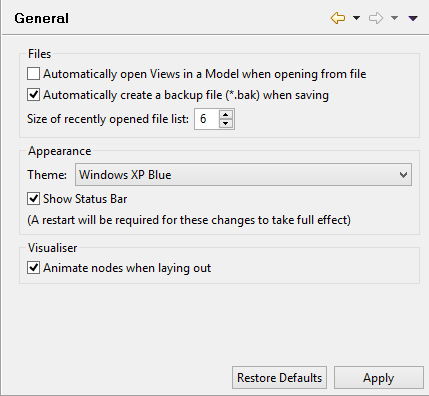
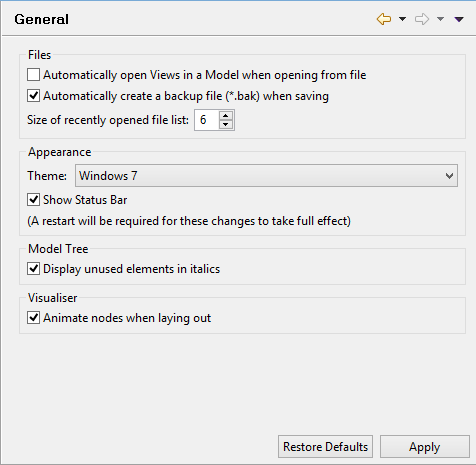
[Help] Update help docs with new Preference to show nodes in italics

Changed region(s): [[0.0, 0.0, 1.0, 0.697], [0.5455, 0.9091, 1.0, 1.0]]

diff --git a/com.archimatetool.help/help/Text/prefs_general.html b/com.archimatetool.help/help/Text/prefs_general.html
@@ -36,6 +36,12 @@
 
 	<br/>
 
+	<h3>Model Tree</h3>
+	<p><strong>Display unused elements in italics</strong><br/>
+	When this is ticked, any elements or relations that are not used in Views are displayed in an Italic font.</p>
+
+	<br/>
+
 	<h3>Visualiser</h3>
 	<p><strong>Animate nodes when laying out</strong><br/>
 	When this is ticked, nodes in the Visualiser window are animated when laid out for the first time and when the "Layout" button is clicked.</p>
